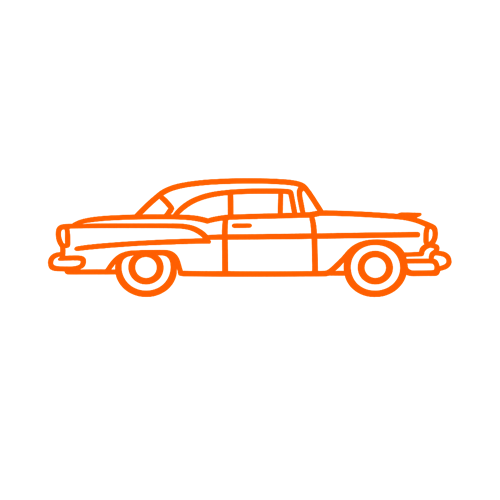
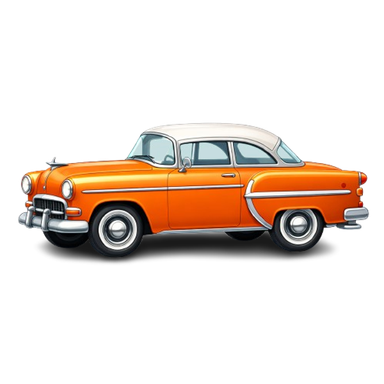
feat(theme): cuban modern palette tokens + load Bricolage/Instrument/JetBrains fonts
Prep work for the client home redesign — no UI changes yet, just the
design system pieces the new components will consume.

## Theme tokens (packages/theme/src/colors.ts)

Two new token bundles at the end of colors.ts, exported from the
package index:

- cubanLight — warm cream paper (#FFFBF5), elev1/elev2, warm accent
  (#FFB547), dusk blue (#6B7F8F), shadow ramps
- cubanDark — navy paper (#0A0E1A), same semantic shape

Does NOT replace existing colors/darkColors — those stay unchanged
for backward compat. New components opt in via cubanLight/cubanDark.

## Fonts (apps/client)

Added to package.json:
- @expo-google-fonts/bricolage-grotesque (display/heading)
- @expo-google-fonts/instrument-serif (emotional italics)
- @expo-google-fonts/jetbrains-mono (numbers + labels)

Loaded in apps/client/app/_layout.tsx alongside existing Montserrat.
Splash still waits for all fonts before hiding.

## Assets

All 5 service selection icons synced from docs/mockups/icons/ to
apps/client/assets/vehicles/selection/ in @1x/@2x/@3x densities via
scripts/sync-selection-icons.js. Auto is now the Almendron.

Changed region(s): [[0.0312, 0.3125, 0.9688, 0.6875]]

diff --git a/packages/theme/src/colors.ts b/packages/theme/src/colors.ts
@@ -269,6 +269,65 @@ export const driverStandardLightColors = {
   sheetHandle: '#CBD5E1',
 } as const;
 
+// ============================================================
+// Cuban Modern — Client home redesign palette (light + dark)
+//
+// Reference: docs/DESIGN_CLIENT_HOME.md §2
+// Used by the redesigned passenger home to achieve the "cuban modern"
+// aesthetic — warm, grounded, honest. Stays compatible with the
+// existing brand.orange token.
+// ============================================================
+
+export const cubanLight = {
+  bg: {
+    paper: '#FFFBF5',      // Main background — tibia crema, no white clínico
+    elev1: '#FFFFFF',       // Cards, inputs, sheets
+    elev2: '#F4EEE2',       // Outer frame, subtle contrast
+  },
+  ink: {
+    primary: '#1A1414',     // Headings, body principal (casi negro cálido)
+    secondary: '#6B7F8F',   // Labels, secondary text
+    subtle: '#A9B4BC',      // Placeholders, meta, disabled
+  },
+  accent: {
+    orange: '#FF4D00',      // Primary accent (brand)
+    orangeGlow: 'rgba(255, 77, 0, 0.18)',
+    warm: '#FFB547',        // Secondary — precios, badges, highlights cálidos
+    dusk: '#6B7F8F',        // Azul ceniza — dividers, accent frío
+  },
+  line: 'rgba(26, 20, 20, 0.08)',
+  shadow: {
+    card: '0 2px 20px rgba(30, 20, 10, 0.04), 0 1px 2px rgba(30, 20, 10, 0.06)',
+    hero: '0 8px 40px rgba(255, 77, 0, 0.15), 0 2px 6px rgba(30, 20, 10, 0.08)',
+  },
+} as const;
+
+export const cubanDark = {
+  bg: {
+    paper: '#0A0E1A',       // Main background — navy profundo
+    elev1: '#11172A',       // Cards, inputs
+    elev2: '#18203A',       // Outer frame / modal backdrop
+  },
+  ink: {
+    primary: '#F4F0EA',     // Texto — crema tibia, no white clínico
+    secondary: '#B7C4CF',   // Secondary
+    subtle: '#6B7F8F',      // Placeholders
+  },
+  accent: {
+    orange: '#FF4D00',
+    orangeGlow: 'rgba(255, 77, 0, 0.25)',
+    warm: '#FFB547',
+    dusk: '#4A6278',        // Dusk más oscuro para dark bg
+  },
+  line: 'rgba(244, 240, 234, 0.08)',
+  shadow: {
+    card: '0 2px 20px rgba(0, 0, 0, 0.3), 0 1px 2px rgba(0, 0, 0, 0.4)',
+    hero: '0 8px 40px rgba(255, 77, 0, 0.25), 0 2px 6px rgba(0, 0, 0, 0.5)',
+  },
+} as const;
+
+export type CubanToken = typeof cubanLight;
+
 export type ColorToken = typeof colors;
 export type DarkColorToken = typeof darkColors;
 export type DriverDarkColorToken = typeof driverDarkColors;

diff --git a/scripts/sync-selection-icons.js b/scripts/sync-selection-icons.js
@@ -1,0 +1,41 @@
+#!/usr/bin/env node
+// Sync service selection icons from the mockup-approved versions
+// (docs/mockups/icons/) into the client app's asset bundle at
+// apps/client/assets/vehicles/selection/. Handles @1x/@2x/@3x.
+//
+// Auto is the new Almendrón (classic Cuban car). The rest are the
+// user's existing 3D renders.
+
+const sharp = require('sharp');
+const path = require('path');
+
+const SRC = 'docs/mockups/icons';
+const DEST = 'apps/client/assets/vehicles/selection';
+
+const ICONS = ['auto', 'confort', 'mensajeria', 'moto', 'triciclo'];
+const SIZES = [
+  { suffix: '', size: 128 },
+  { suffix: '@2x', size: 256 },
+  { suffix: '@3x', size: 384 },
+];
+
+async function main() {
+  for (const icon of ICONS) {
+    // Use the @3x source for highest quality, then downscale
+    const src = path.join(SRC, `${icon}@3x.png`);
+    for (const { suffix, size } of SIZES) {
+      const out = path.join(DEST, `${icon}${suffix}.png`);
+      await sharp(src)
+        .resize(size, size, {
+          fit: 'contain',
+          kernel: 'lanczos3',
+          background: { r: 0, g: 0, b: 0, alpha: 0 },
+        })
+        .png({ compressionLevel: 9 })
+        .toFile(out);
+    }
+    console.log(`✓ ${icon} (3 sizes: 128/256/384)`);
+  }
+}
+
+main().catch((e) => { console.error(e); process.exit(1); });

diff --git a/apps/client/app/_layout.tsx b/apps/client/app/_layout.tsx
@@ -10,6 +10,17 @@ import {
   Montserrat_700Bold,
   Montserrat_800ExtraBold,
 } from '@expo-google-fonts/montserrat';
+import {
+  BricolageGrotesque_500Medium,
+  BricolageGrotesque_600SemiBold,
+  BricolageGrotesque_700Bold,
+} from '@expo-google-fonts/bricolage-grotesque';
+import { InstrumentSerif_400Regular_Italic, InstrumentSerif_400Regular } from '@expo-google-fonts/instrument-serif';
+import {
+  JetBrainsMono_400Regular,
+  JetBrainsMono_500Medium,
+  JetBrainsMono_600SemiBold,
+} from '@expo-google-fonts/jetbrains-mono';
 import * as SplashScreen from 'expo-splash-screen';
 import { AppProviders } from '@/providers/app-providers';
 import { StripeBootstrap } from '@/lib/stripe-bootstrap';
@@ -181,6 +192,14 @@ function RootLayoutInner() {
     Montserrat_600SemiBold,
     Montserrat_700Bold,
     Montserrat_800ExtraBold,
+    BricolageGrotesque_500Medium,
+    BricolageGrotesque_600SemiBold,
+    BricolageGrotesque_700Bold,
+    InstrumentSerif_400Regular,
+    InstrumentSerif_400Regular_Italic,
+    JetBrainsMono_400Regular,
+    JetBrainsMono_500Medium,
+    JetBrainsMono_600SemiBold,
   });
 
   const onLayoutReady = useCallback(async () => {

diff --git a/packages/theme/src/index.ts b/packages/theme/src/index.ts
@@ -1,5 +1,5 @@
-export { colors, darkColors, driverDarkColors, driverLightColors, driverMapDarkColors, driverStandardLightColors } from './colors';
-export type { ColorToken, DarkColorToken, DriverDarkColorToken, DriverLightColorToken, DriverMapDarkColorToken, DriverStandardLightColorToken } from './colors';
+export { colors, darkColors, driverDarkColors, driverLightColors, driverMapDarkColors, driverStandardLightColors, cubanLight, cubanDark } from './colors';
+export type { ColorToken, DarkColorToken, DriverDarkColorToken, DriverLightColorToken, DriverMapDarkColorToken, DriverStandardLightColorToken, CubanToken } from './colors';
 export { fontFamily, fontWeight, fontSize, lineHeight, textVariants } from './typography';
 export { spacing, borderRadius, shadows } from './spacing';
 export { brand } from './brand';
